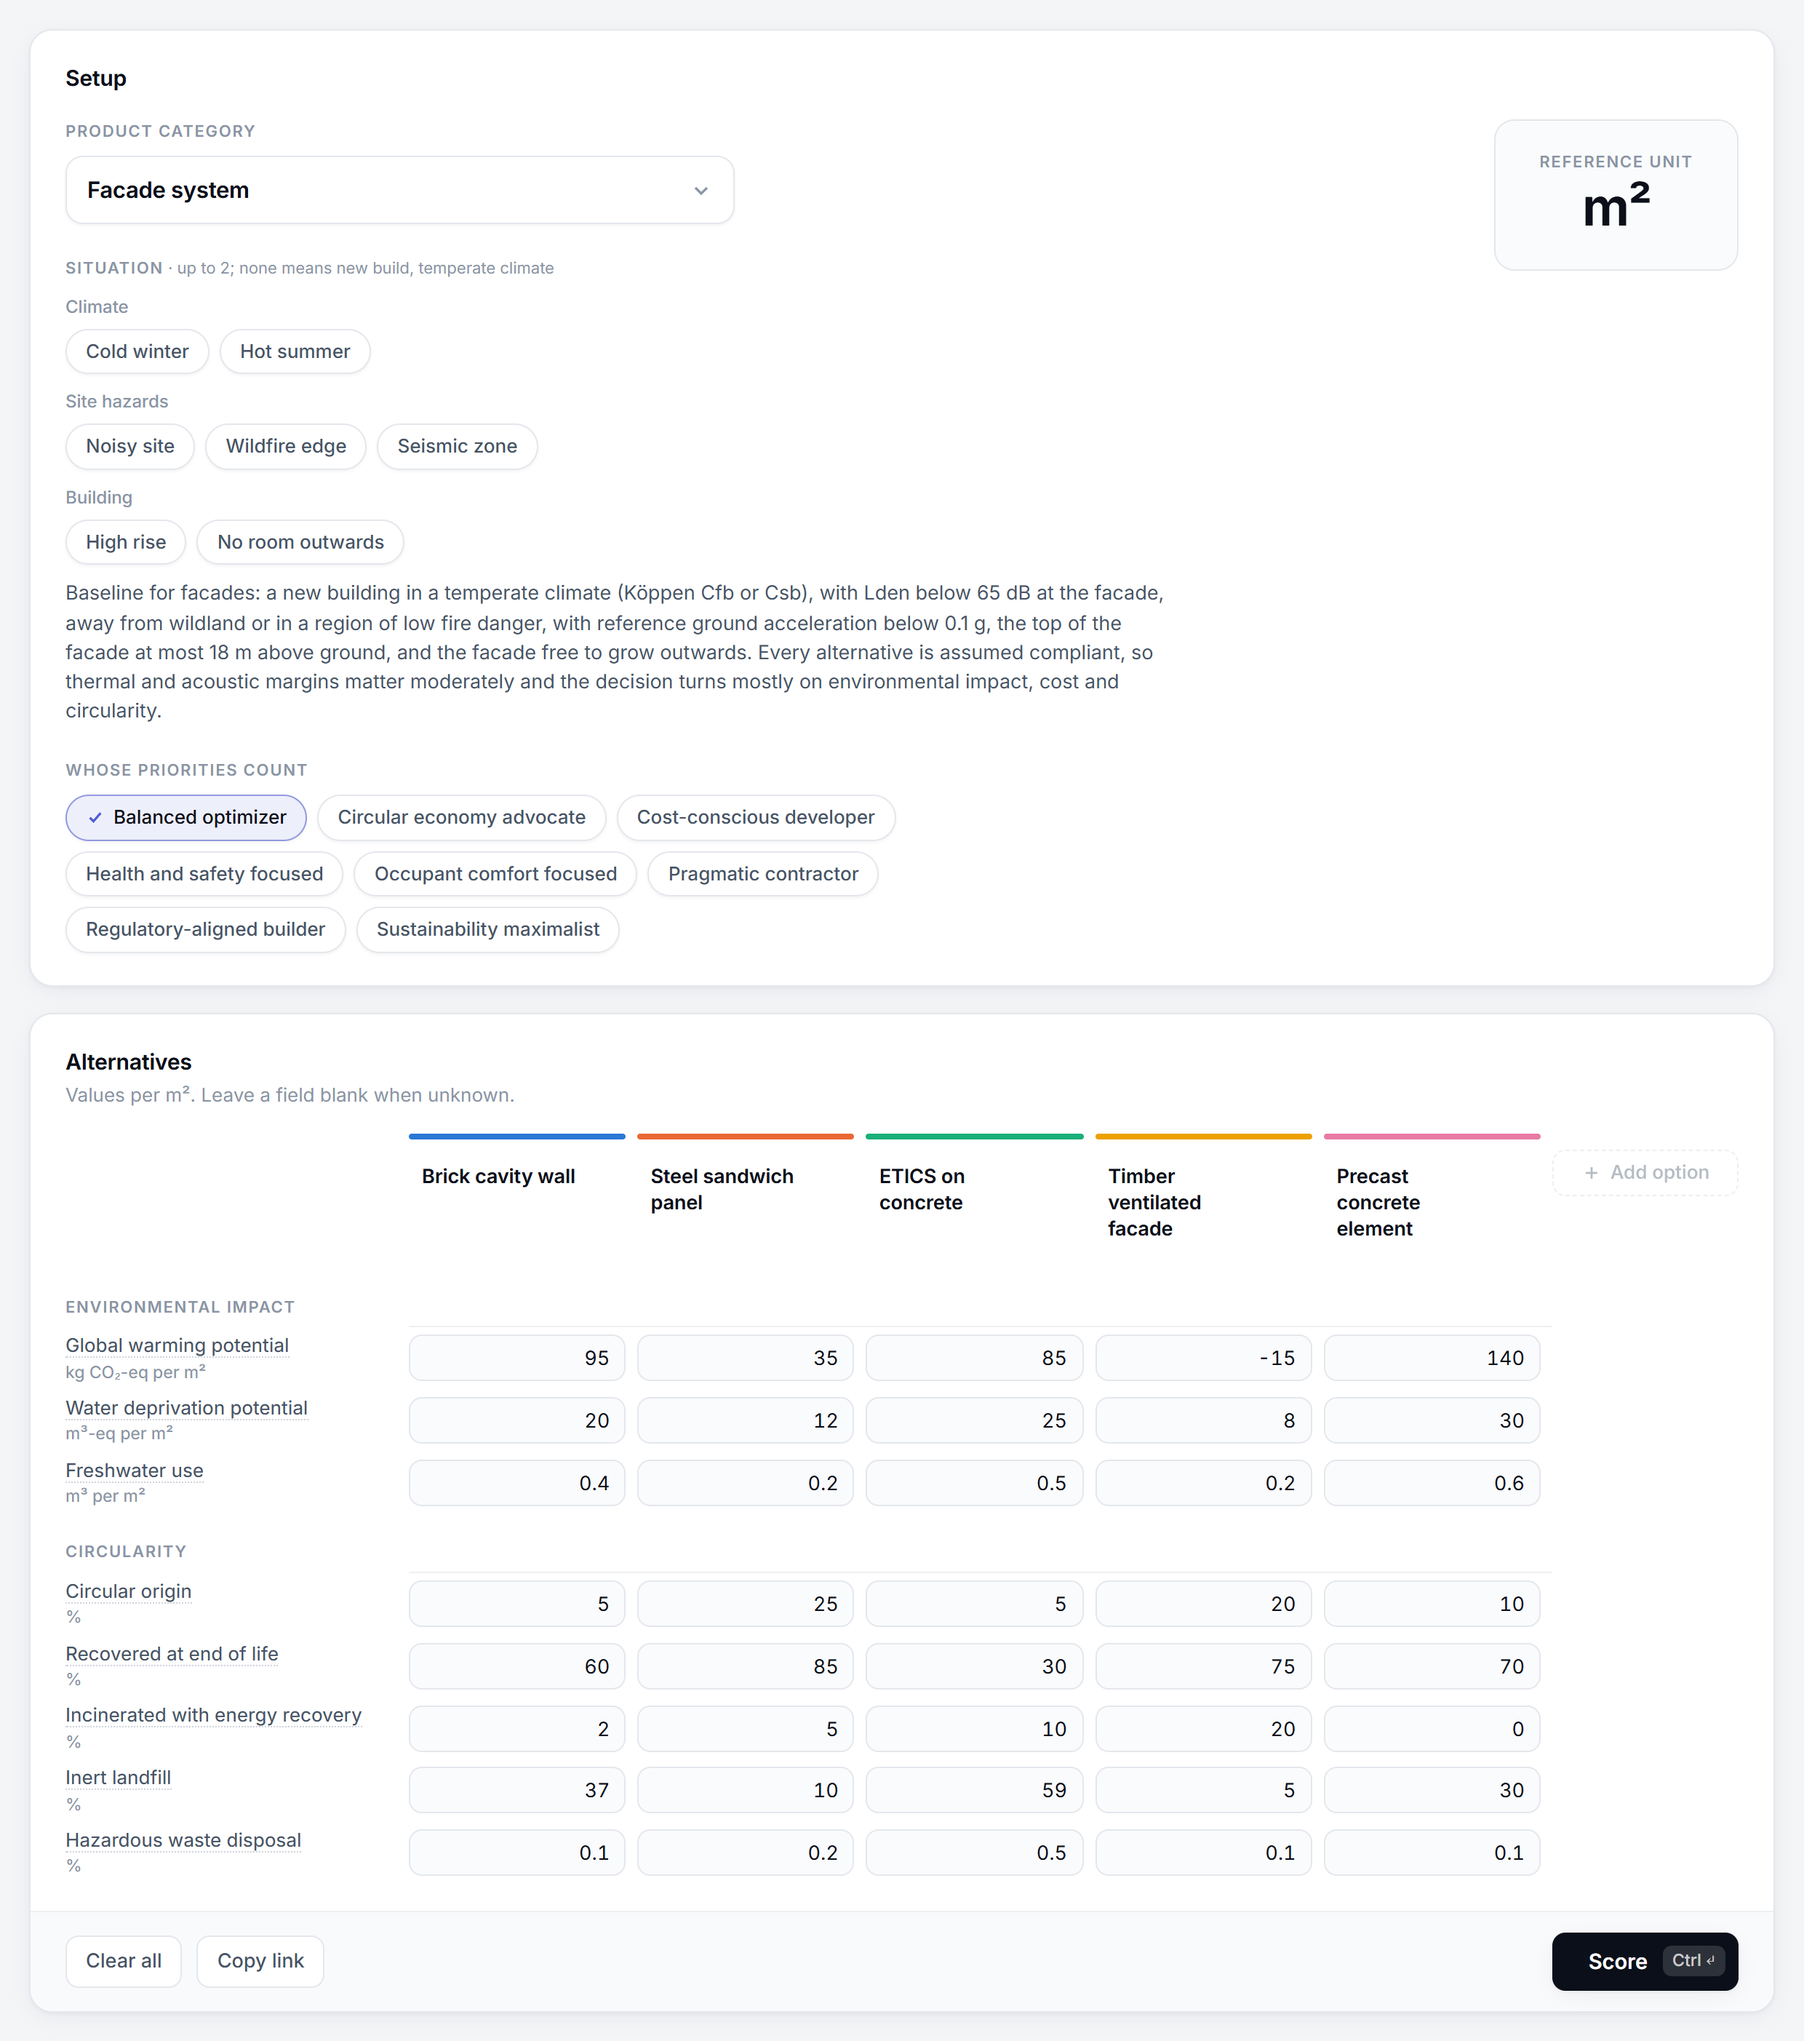
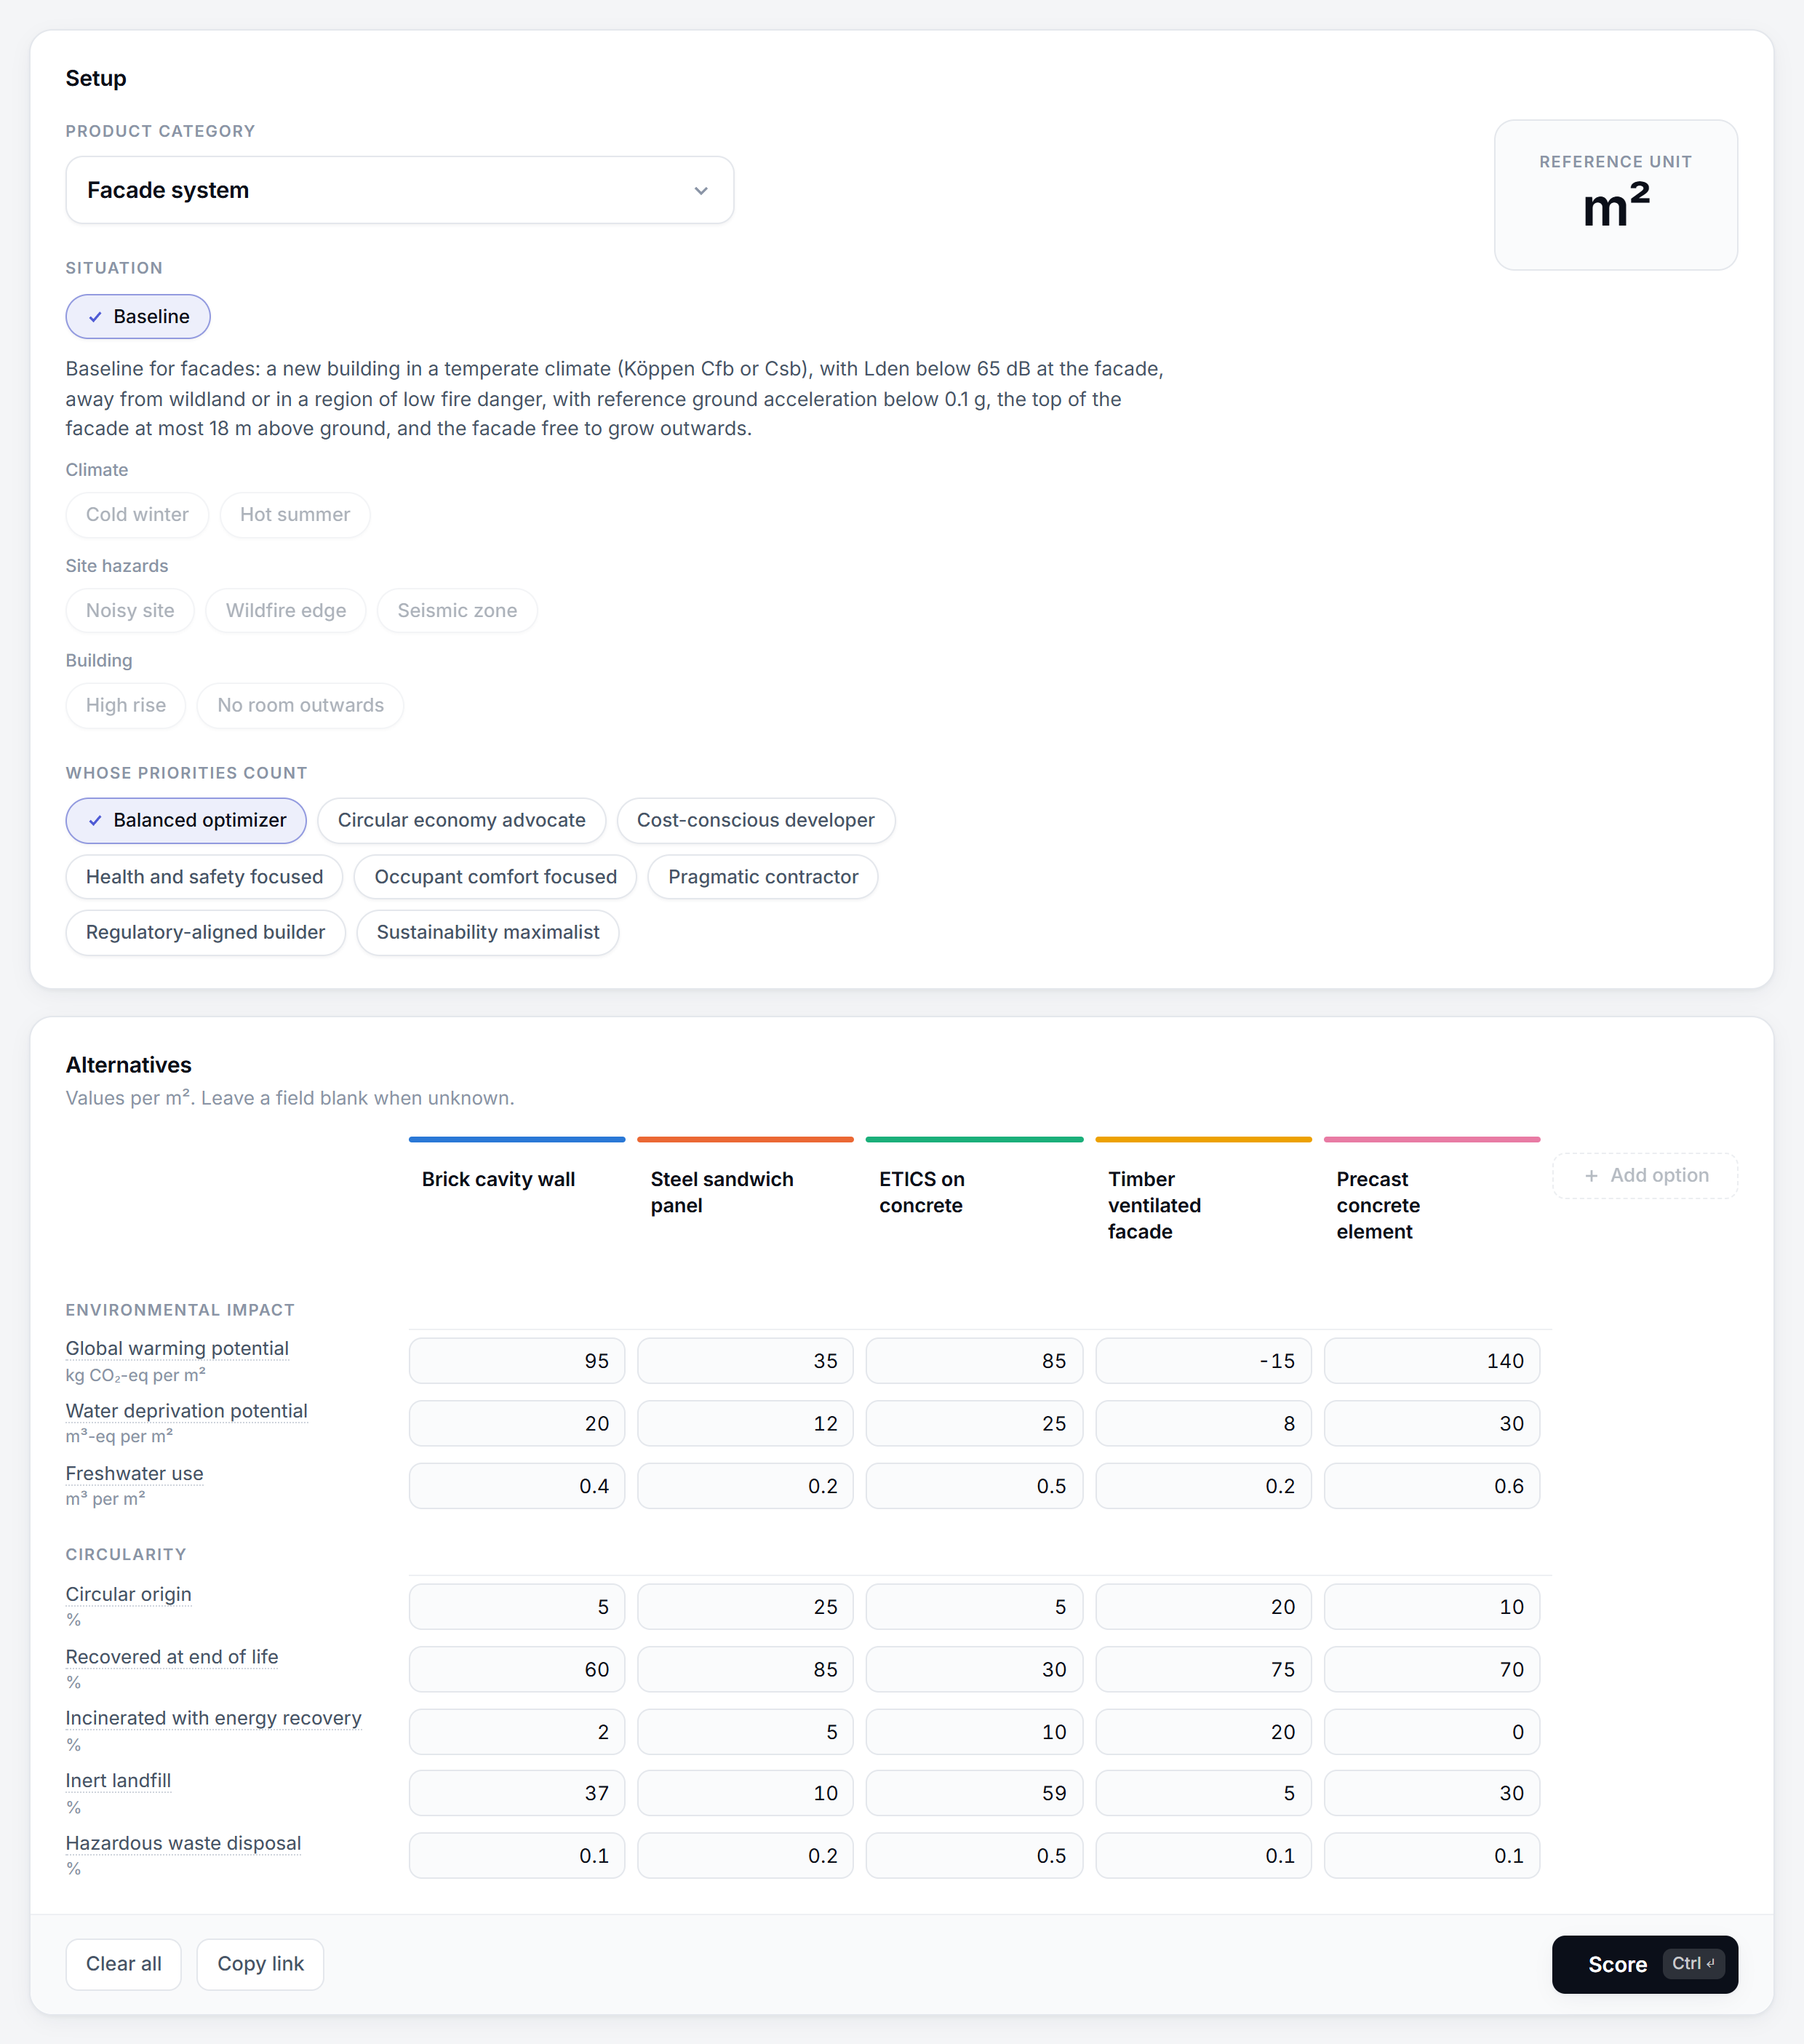
baseline toggle first, shorter baseline wording

diff --git a/frontend/src/components/Setup.tsx b/frontend/src/components/Setup.tsx
@@ -1,7 +1,7 @@
 import type { Form, FormCategory } from "../api/client";
-import { baselineOf, switchable, toggle as toggleContext } from "../contexts";
-import { stagger, unitText } from "../format";
+import { unitText } from "../format";
 import { CategoryPicker } from "./CategoryPicker";
+import { ContextPicker } from "./ContextPicker";
 
 type Props = {
   form: Form;
@@ -26,11 +26,6 @@ export function Setup({
     if (!stakeholders.includes(key)) onStakeholders([...stakeholders, key]);
     else if (stakeholders.length > 1) onStakeholders(stakeholders.filter((s) => s !== key));
   };
-  const groups = switchable(category);
-  const baseline = baselineOf(category);
-  const chosen = category.contexts.filter((c) => contexts.includes(c.key));
-  const full = contexts.length >= category.max_contexts;
-  let index = 0;
 
   return (
     <section className="card">
@@ -57,46 +52,8 @@ export function Setup({
           <div className="field">
             <span className="label" id="context-label">
               Situation
-              <span className="label-hint">
-                {" "}
-                · up to {category.max_contexts}; none means {baseline?.display_name.toLowerCase() ?? "the baseline"}
-              </span>
             </span>
-            <div className="context-groups" role="group" aria-labelledby="context-label" key={category.key}>
-              {groups.map((group) => (
-                <div className="context-group" key={group.theme ?? "all"}>
-                  {group.theme && <span className="context-theme">{group.theme}</span>}
-                  <div className="chips">
-                    {group.contexts.map((c) => {
-                      const on = contexts.includes(c.key);
-                      return (
-                        <button
-                          key={c.key}
-                          type="button"
-                          className="chip enter"
-                          style={stagger(index++)}
-                          title={c.definition}
-                          aria-pressed={on}
-                          disabled={!on && full}
-                          onClick={() => onContexts(toggleContext(contexts, c.key, category.max_contexts))}
-                        >
-                          <svg className="tick" viewBox="0 0 16 16" aria-hidden="true">
-                            <path d="M3.5 8.5l3 3 6-7" fill="none" stroke="currentColor" strokeWidth="2" />
-                          </svg>
-                          {c.display_name}
-                        </button>
-                      );
-                    })}
-                  </div>
-                </div>
-              ))}
-            </div>
-            {chosen.length === 0 && baseline && <p className="definition">{baseline.definition}</p>}
-            {chosen.map((c) => (
-              <p className="definition" key={c.key}>
-                <strong>{c.display_name}.</strong> {c.definition}
-              </p>
-            ))}
+            <ContextPicker key={category.key} category={category} contexts={contexts} onContexts={onContexts} />
           </div>
 
           <div className="field">

diff --git a/frontend/src/components/ContextPicker.tsx b/frontend/src/components/ContextPicker.tsx
@@ -1,0 +1,81 @@
+import { useState } from "react";
+
+import type { FormCategory } from "../api/client";
+import { baselineOf, switchable, toggle } from "../contexts";
+import { stagger } from "../format";
+
+type Props = {
+  category: FormCategory;
+  contexts: string[];
+  onContexts: (keys: string[]) => void;
+};
+
+const Tick = () => (
+  <svg className="tick" viewBox="0 0 16 16" aria-hidden="true">
+    <path d="M3.5 8.5l3 3 6-7" fill="none" stroke="currentColor" strokeWidth="2" />
+  </svg>
+);
+
+export function ContextPicker({ category, contexts, onContexts }: Props) {
+  const [baselineOn, setBaselineOn] = useState(contexts.length === 0);
+  const baseline = baselineOf(category);
+  const chosen = category.contexts.filter((c) => contexts.includes(c.key));
+  const full = contexts.length >= category.max_contexts;
+  let index = 1;
+
+  const switchBaseline = () => {
+    if (!baselineOn) onContexts([]);
+    setBaselineOn(!baselineOn);
+  };
+
+  return (
+    <>
+      <div className="context-groups" role="group" aria-labelledby="context-label">
+        <div className="chips">
+          <button
+            type="button"
+            className="chip enter"
+            style={stagger(0)}
+            title={baseline?.definition}
+            aria-pressed={baselineOn}
+            onClick={switchBaseline}
+          >
+            <Tick />
+            Baseline
+          </button>
+        </div>
+        {baselineOn && baseline && <p className="definition">{baseline.definition}</p>}
+        {switchable(category).map((group) => (
+          <div className="context-group" key={group.theme ?? "all"}>
+            {group.theme && <span className="context-theme">{group.theme}</span>}
+            <div className="chips">
+              {group.contexts.map((c) => {
+                const on = contexts.includes(c.key);
+                return (
+                  <button
+                    key={c.key}
+                    type="button"
+                    className="chip enter"
+                    style={stagger(index++)}
+                    title={c.definition}
+                    aria-pressed={on}
+                    disabled={baselineOn || (!on && full)}
+                    onClick={() => onContexts(toggle(contexts, c.key, category.max_contexts))}
+                  >
+                    <Tick />
+                    {c.display_name}
+                  </button>
+                );
+              })}
+            </div>
+          </div>
+        ))}
+      </div>
+      {chosen.map((c) => (
+        <p className="definition" key={c.key}>
+          <strong>{c.display_name}.</strong> {c.definition}
+        </p>
+      ))}
+    </>
+  );
+}

diff --git a/frontend/src/styles.css b/frontend/src/styles.css
@@ -225,7 +225,6 @@ input[type="number"]::-webkit-outer-spin-button { -webkit-appearance: none; marg
 .chip:disabled { opacity: 0.45; cursor: not-allowed; }
 .chip:disabled:hover { border-color: var(--border); color: var(--text-secondary); }
 
-.label-hint { font-weight: 400; color: var(--text-muted); text-transform: none; letter-spacing: 0; }
 .context-groups { display: flex; flex-direction: column; gap: 10px; }
 .context-group { display: flex; flex-direction: column; gap: 6px; }
 .context-theme { font-size: 12px; font-weight: 500; color: var(--text-muted); }

diff --git a/README.md b/README.md
@@ -55,7 +55,7 @@ experts.
 
 <!-- results:start -->
 The model in `serve/release/` comes from run `baseline-20261116T144421Z` and
-carries registry 0.6.0. On 10,301 test shortlists it scores:
+carries registry 0.6.1. On 10,301 test shortlists it scores:
 
 | Gap fidelity | Band placement | Top-1 agreement | Tie-tolerant rank correlation | Behavioural assertions |
 |---|---|---|---|---|
